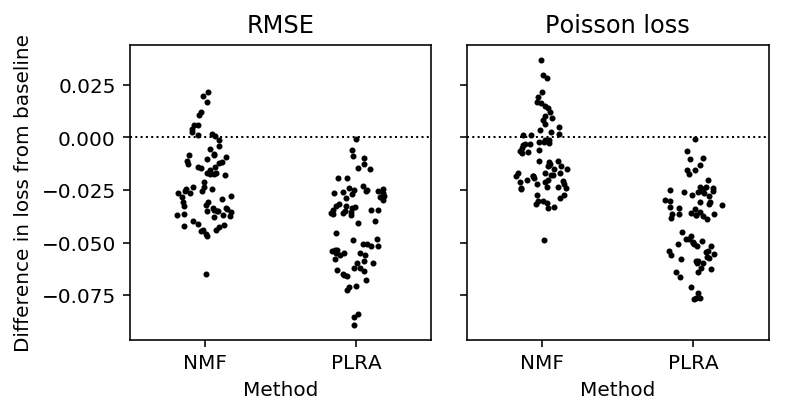
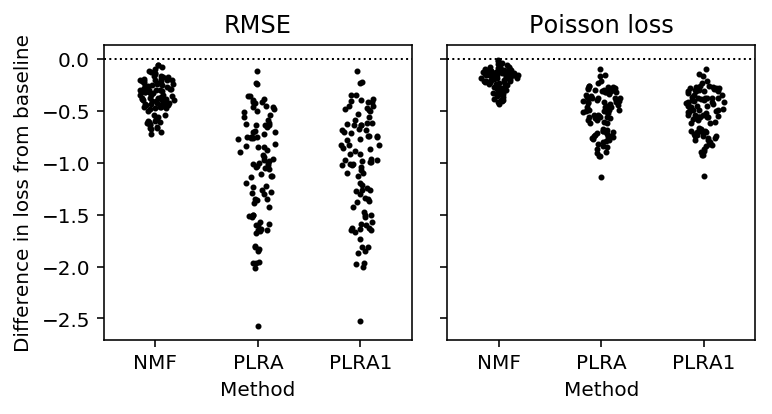
Update imputation benchmark

diff --git a/docs/wlra.html b/docs/wlra.html
@@ -1,7 +1,7 @@
 <!DOCTYPE html>
 <html lang="en">
 <head>
-<!-- 2018-10-09 Tue 16:04 -->
+<!-- 2018-10-10 Wed 12:19 -->
 <meta charset="utf-8">
 <meta name="viewport" content="width=device-width, initial-scale=1">
 <title>Weighted low rank approximation</title>
@@ -263,17 +263,17 @@ for the JavaScript code in this tag.
 <li><a href="#org1010fdb">EM algorithm</a></li>
 <li><a href="#orgdd7ac38">Alternative derivation</a></li>
 <li><a href="#orgb462a31">Maximizing non-Gaussian likelihoods</a></li>
-<li><a href="#orgc035e15">Imputing missing values</a></li>
-<li><a href="#org15db90d">Choosing the rank of the approximation</a></li>
+<li><a href="#org622533c">Imputing missing values</a></li>
+<li><a href="#orgc1ad970">Choosing the rank of the approximation</a></li>
 </ul>
 </li>
 <li><a href="#org643a7f6">Results</a>
 <ul>
 <li><a href="#org31c72cd">Recovering low rank structure</a></li>
 <li><a href="#org64afc90">Explaining training data</a></li>
-<li><a href="#org622533c">Imputing missing values</a></li>
+<li><a href="#org762312f">Imputing missing values</a></li>
 <li><a href="#orgb6aef17">Convergence</a></li>
-<li><a href="#orgc1ad970">Choosing the rank of the approximation</a></li>
+<li><a href="#orga964d7a">Choosing the rank of the approximation</a></li>
 <li><a href="#orgd780580">Explaining held out data</a></li>
 </ul>
 </li>
@@ -533,9 +533,9 @@ where \(S(\cdot)\) denotes the sigmoid function.
 </div>
 </div>
 
-<div id="outline-container-orgc035e15" class="outline-3">
-<h3 id="orgc035e15">Imputing missing values</h3>
-<div class="outline-text-3" id="text-orgc035e15">
+<div id="outline-container-org622533c" class="outline-3">
+<h3 id="org622533c">Imputing missing values</h3>
+<div class="outline-text-3" id="text-org622533c">
 <p>
 The EM algorithm for WLRA supports missing values by setting \(w_{ij} =
    0\).
@@ -550,9 +550,9 @@ presence/absence. We can do this by using weights \(\tilde{\mathbf{W}} \circ
 </div>
 </div>
 
-<div id="outline-container-org15db90d" class="outline-3">
-<h3 id="org15db90d">Choosing the rank of the approximation</h3>
-<div class="outline-text-3" id="text-org15db90d">
+<div id="outline-container-orgc1ad970" class="outline-3">
+<h3 id="orgc1ad970">Choosing the rank of the approximation</h3>
+<div class="outline-text-3" id="text-orgc1ad970">
 <p>
 The most obvious way to pick an optimal rank is to use cross-validation:
 hold out some samples, and evaluate the likelihood of the held-out samples
@@ -827,9 +827,9 @@ plt.xlabel(<span class="org-string">'Method'</span>)
 </div>
 </div>
 
-<div id="outline-container-org622533c" class="outline-3">
-<h3 id="org622533c">Imputing missing values</h3>
-<div class="outline-text-3" id="text-org622533c">
+<div id="outline-container-org762312f" class="outline-3">
+<h3 id="org762312f">Imputing missing values</h3>
+<div class="outline-text-3" id="text-org762312f">
 <p>
 We generate a Poisson data matrix with planted row rank structure.
 </p>
@@ -884,12 +884,15 @@ against non-negative matrix factorization (<a href="https://papers.nips.cc/paper
     <span class="org-keyword">return</span> [np.nan <span class="org-keyword">for</span> f <span class="org-keyword">in</span> losses]
 
 <span class="org-keyword">def</span> <span class="org-function-name">imputation_score_plra1</span>(x, rank):
-  <span class="org-variable-name">res</span> = np.exp(wlra.pois_lra(x, rank=rank, max_outer_iters=1))
-  <span class="org-keyword">return</span> loss(res[x.mask], x.data[x.mask])
+  <span class="org-keyword">try</span>:
+    <span class="org-variable-name">res</span> = np.exp(wlra.plra(x, rank=rank, max_outer_iters=1))
+    <span class="org-keyword">return</span> loss(res[x.mask], x.data[x.mask])
+  <span class="org-keyword">except</span> <span class="org-type">RuntimeError</span>:
+    <span class="org-keyword">return</span> [np.nan <span class="org-keyword">for</span> f <span class="org-keyword">in</span> losses]
 
 <span class="org-keyword">def</span> <span class="org-function-name">imputation_score_plra</span>(x, rank):
   <span class="org-keyword">try</span>:
-    <span class="org-variable-name">res</span> = np.exp(wlra.pois_lra(x, rank=rank, max_outer_iters=100, check_converged=<span class="org-constant">True</span>))
+    <span class="org-variable-name">res</span> = np.exp(wlra.plra(x, rank=rank, max_outer_iters=100, check_converged=<span class="org-constant">True</span>))
     <span class="org-keyword">return</span> loss(res[x.mask], x.data[x.mask])
   <span class="org-keyword">except</span> <span class="org-type">RuntimeError</span>:
     <span class="org-keyword">return</span> [np.nan <span class="org-keyword">for</span> f <span class="org-keyword">in</span> losses]
@@ -903,11 +906,13 @@ against non-negative matrix factorization (<a href="https://papers.nips.cc/paper
       [[trial],
        imputation_score_mean(x),
        imputation_score_nmf(x, rank),
-       imputation_score_pois_lra(x, rank, max_retries=1),
+       imputation_score_plra(x, rank),
+       imputation_score_plra1(x, rank),
       ])))
   <span class="org-variable-name">result</span> = pd.DataFrame(result)
   <span class="org-variable-name">result.columns</span> = [<span class="org-string">'trial'</span>, <span class="org-string">'rmse_mean'</span>, <span class="org-string">'pois_loss_mean'</span>, <span class="org-string">'rmse_nmf'</span>,
-                    <span class="org-string">'pois_loss_nmf'</span>, <span class="org-string">'rmse_plra'</span>, <span class="org-string">'pois_loss_plra'</span>]
+                    <span class="org-string">'pois_loss_nmf'</span>, <span class="org-string">'rmse_plra'</span>, <span class="org-string">'pois_loss_plra'</span>,
+                    <span class="org-string">'rmse_plra1'</span>, <span class="org-string">'pois_loss_plra1'</span>]
   <span class="org-keyword">return</span> result
 </pre>
 </div>
@@ -934,7 +939,7 @@ array([[ 12,  12,  11,  12,  12,  11,  11,  12,  12,  12],
 <div class="org-src-container">
 <pre class="src src-ipython">&lt;&lt;imports&gt;&gt;
 &lt;&lt;poisson-imputation&gt;&gt;
-<span class="org-variable-name">res</span> = evaluate_pois_imputation(eta_max=2, num_trials=100)
+<span class="org-variable-name">res</span> = evaluate_pois_imputation(eta_max=5, num_trials=100)
 res.to_csv(<span class="org-string">'/project2/mstephens/aksarkar/projects/singlecell-ideas/data/wlra/pois-imputation.txt.gz'</span>, compression=<span class="org-string">'gzip'</span>, sep=<span class="org-string">'\t'</span>)
 </pre>
 </div>
@@ -948,7 +953,7 @@ python /project2/mstephens/aksarkar/projects/singlecell-ideas/code/pois-imputati
 </div>
 
 <pre class="example">
-Submitted batch job 50872498
+Submitted batch job 50884739
 
 </pre>
 
@@ -967,11 +972,11 @@ Plot the performance.
 
 <div class="org-src-container">
 <pre class="src src-ipython"><span class="org-variable-name">T</span> = results_pois_imputation.dropna()
+<span class="org-variable-name">methods</span> = [<span class="org-string">'nmf'</span>, <span class="org-string">'plra'</span>, <span class="org-string">'plra1'</span>]
 
 plt.clf()
 <span class="org-variable-name">fig</span>, <span class="org-variable-name">ax</span> = plt.subplots(1, 2, sharey=<span class="org-constant">True</span>)
 fig.set_size_inches(5.5, 3)
-<span class="org-variable-name">methods</span> = [<span class="org-string">'nmf'</span>, <span class="org-string">'plra'</span>]
 <span class="org-keyword">for</span> i, (loss_, name) <span class="org-keyword">in</span> <span class="org-builtin">enumerate</span>(<span class="org-builtin">zip</span>([<span class="org-string">'rmse'</span>, <span class="org-string">'pois_loss'</span>], [<span class="org-string">'RMSE'</span>, <span class="org-string">'Poisson loss'</span>])):
   <span class="org-keyword">for</span> j, method <span class="org-keyword">in</span> <span class="org-builtin">enumerate</span>(methods):
     <span class="org-variable-name">y</span> = T[f<span class="org-string">'{loss_}_{method}'</span>] - T[f<span class="org-string">'{loss_}_mean'</span>]
@@ -982,7 +987,7 @@ fig.set_size_inches(5.5, 3)
   ax[i].axhline(y=0, c=<span class="org-string">'k'</span>, ls=<span class="org-string">':'</span>, lw=1)
   ax[i].set_xticks(<span class="org-builtin">range</span>(<span class="org-builtin">len</span>(methods)))
   ax[i].set_xticklabels([x.upper() <span class="org-keyword">for</span> x <span class="org-keyword">in</span> methods])
-  ax[i].set_xlim(-.5, 1.5)
+  ax[i].set_xlim(-.5, <span class="org-builtin">len</span>(methods) - .5)
   ax[i].set_title(name)
   ax[i].set_xlabel(<span class="org-string">'Method'</span>)
 ax[0].set_ylabel(<span class="org-string">'Difference in loss from baseline'</span>)
@@ -993,6 +998,32 @@ fig.tight_layout()
 
 <div class="figure">
 <p><img src="figure/wlra.org/pois-imputation.png" alt="pois-imputation.png">
+</p>
+</div>
+
+<p>
+Look at the difference between PLRA and PLRA1.
+</p>
+
+<div class="org-src-container">
+<pre class="src src-ipython">plt.clf()
+plt.gcf().set_size_inches(3, 3)
+<span class="org-variable-name">y</span> = T[<span class="org-string">'pois_loss_plra1'</span>] - T[<span class="org-string">'pois_loss_plra'</span>]
+<span class="org-variable-name">f</span> = st.gaussian_kde(y)
+<span class="org-variable-name">py</span> = f(y)
+<span class="org-variable-name">x</span> = .2 / py.<span class="org-builtin">max</span>() * np.random.uniform(-py, py)
+plt.scatter(x, y, c=<span class="org-string">'k'</span>, s=4)
+plt.axhline(y=0, c=<span class="org-string">'k'</span>, lw=1, ls=<span class="org-string">':'</span>)
+plt.xticks([0], [<span class="org-string">'PLRA1'</span>])
+plt.xlim(-.5, .5)
+plt.xlabel(<span class="org-string">'Method'</span>)
+<span class="org-variable-name">_</span> = plt.ylabel(<span class="org-string">'Difference in Poisson loss from PLRA'</span>)
+</pre>
+</div>
+
+
+<div class="figure">
+<p><img src="figure/wlra.org/plra-plra1-imputation.png" alt="plra-plra1-imputation.png">
 </p>
 </div>
 </div>
@@ -1137,9 +1168,9 @@ fig.tight_layout()
 </div>
 </div>
 
-<div id="outline-container-orgc1ad970" class="outline-3">
-<h3 id="orgc1ad970">Choosing the rank of the approximation</h3>
-<div class="outline-text-3" id="text-orgc1ad970">
+<div id="outline-container-orga964d7a" class="outline-3">
+<h3 id="orga964d7a">Choosing the rank of the approximation</h3>
+<div class="outline-text-3" id="text-orga964d7a">
 <p>
 We generate a Poisson data matrix with planted row rank structure.
 </p>
@@ -1402,7 +1433,7 @@ Submitted batch job 50610089
 </div>
 <div id="postamble" class="status">
 <p class="author">Author: Abhishek Sarkar</p>
-<p class="date">Created: 2018-10-09 Tue 16:04</p>
+<p class="date">Created: 2018-10-10 Wed 12:19</p>
 <p class="validation"><a href="http://validator.w3.org/check?uri=referer">Validate</a></p>
 </div>
 </body>
